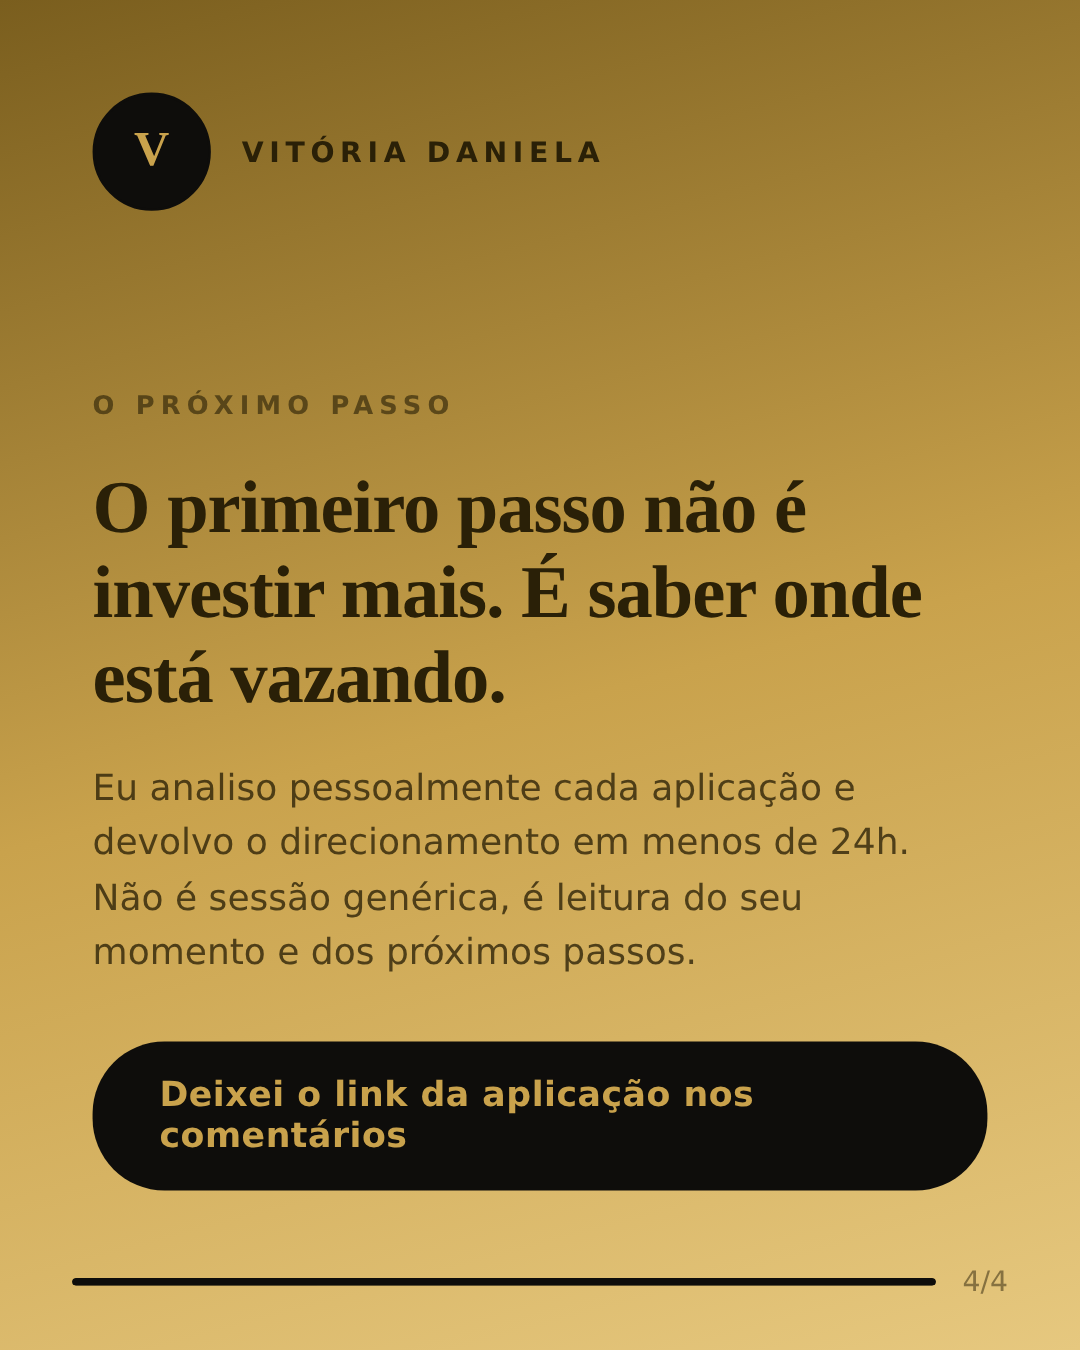
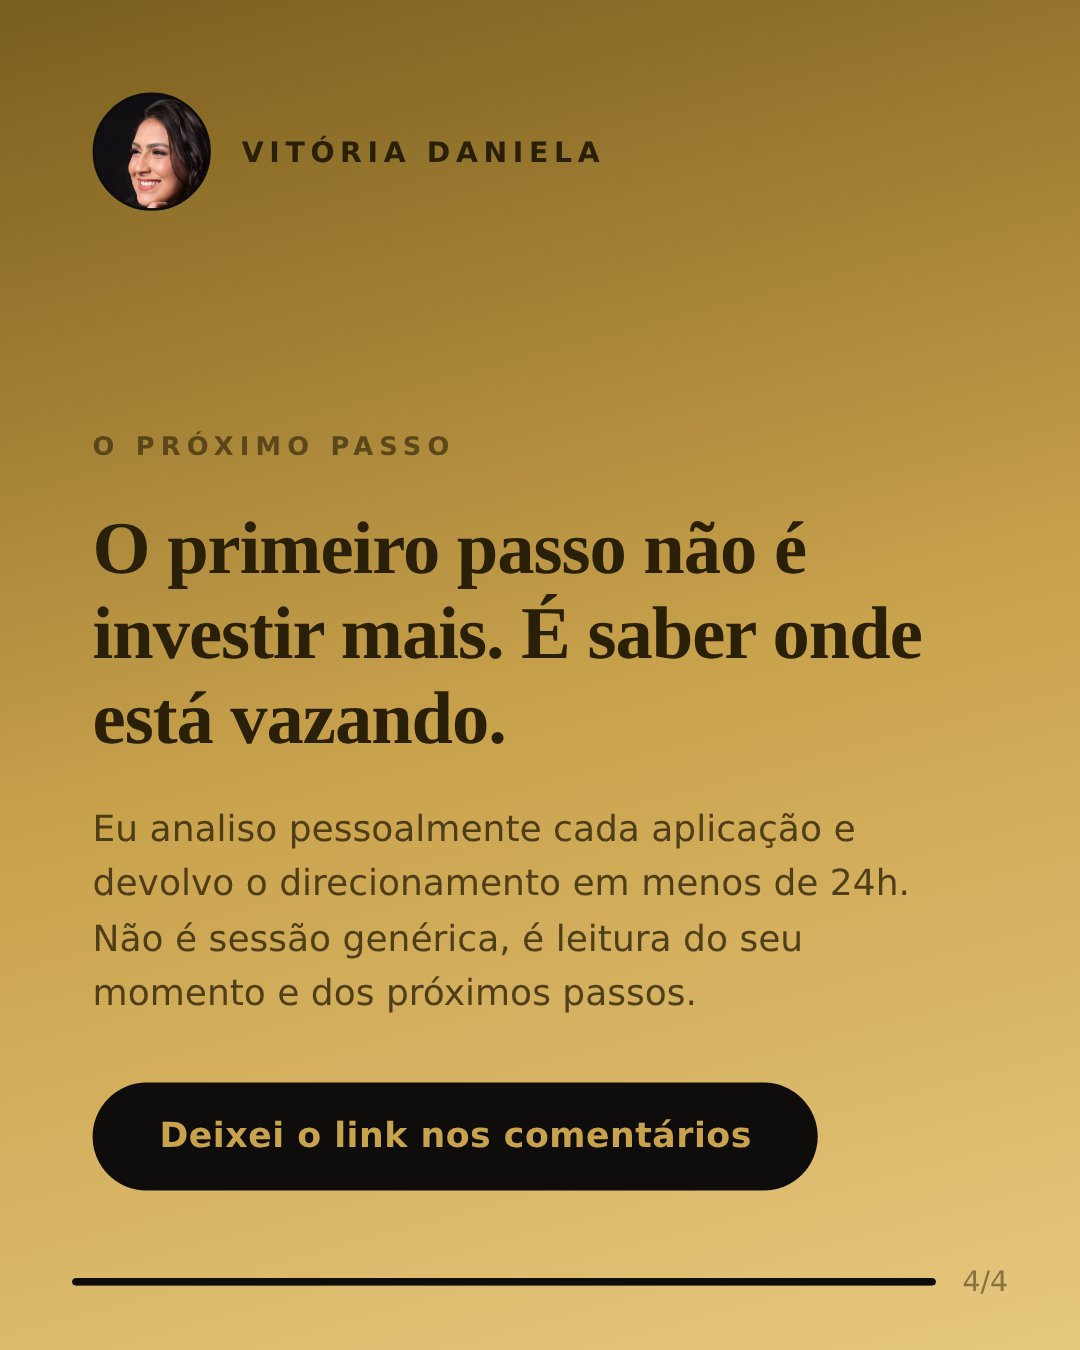
Vitoria Daniela: aplica a foto dela no lockup do carrossel
Usa a DSC_2820 (2) do ensaio que esta na pasta Fotos do Drive, recortada em
quadrado no rosto e reduzida pra 420px (28KB). Como o fundo da foto e preto,
ela se funde com o card escuro e fica so o rosto com o anel dourado.

Encurta o CTA pra "Deixei o link nos comentarios", que cabe em uma linha no
botao. A palavra aplicacao ja aparece no corpo do card.

Claude-Session: https://claude.ai/code/session_013Sa3HLQHYweprDFbfMtnWK

Changed region(s): [[0.0611, 0.28, 0.9167, 0.9022], [0.1222, 0.0622, 0.1833, 0.1556]]

diff --git a/clientes/vitoria-daniela/copy/2026-08-06-carrossel-sessao-gratuita/carrossel.html b/clientes/vitoria-daniela/copy/2026-08-06-carrossel-sessao-gratuita/carrossel.html
@@ -139,7 +139,7 @@ function lockup(fundo) {
   return `<div style="display:flex;align-items:center;gap:12px;">
     <div style="position:relative;width:46px;height:46px;border-radius:50%;overflow:hidden;flex-shrink:0;background:${fundoCirc};border:1.5px solid ${anel};display:flex;align-items:center;justify-content:center;">
       <span class="serif" style="font-size:19px;font-weight:600;color:${corInic};">${BRAND.inicial}</span>
-      <img src="${FOTO}" onerror="this.remove()" style="position:absolute;inset:0;width:100%;height:100%;object-fit:cover;object-position:center 18%;">
+      <img src="${FOTO}" onerror="this.remove()" style="position:absolute;inset:0;width:100%;height:100%;object-fit:cover;object-position:center;">
     </div>
     <span class="sans" style="font-size:11px;font-weight:600;letter-spacing:2.2px;color:${corTexto};">${BRAND.nome}</span>
   </div>`;
@@ -224,7 +224,7 @@ const SLIDES = [
         ${titulo('O primeiro passo não é investir mais. É saber onde está vazando.', 'gradient', 29)}
         ${paragrafo('Eu analiso pessoalmente cada aplicação e devolvo o direcionamento em menos de 24h. Não é sessão genérica, é leitura do seu momento e dos próximos passos.', 'gradient')}
         <div style="margin-top:22px;">
-          ${botaoCta('Deixei o link da aplicação nos comentários')}
+          ${botaoCta('Deixei o link nos comentários')}
         </div>
       </div>
     </div>
@@ -256,7 +256,7 @@ track.innerHTML = SLIDES.map(renderSlide).join('');
 const avatar = document.getElementById('igAvatar');
 avatar.style.background = BRAND.darkBg;
 avatar.innerHTML = `<span>${BRAND.inicial}</span>
-  <img src="${FOTO}" onerror="this.remove()" style="position:absolute;inset:0;width:100%;height:100%;object-fit:cover;object-position:center 18%;">`;
+  <img src="${FOTO}" onerror="this.remove()" style="position:absolute;inset:0;width:100%;height:100%;object-fit:cover;object-position:center;">`;
 document.getElementById('igHandle').textContent = BRAND.handle;
 document.getElementById('igSub').textContent = LEGENDA.sub;
 document.getElementById('igCaption').innerHTML =
